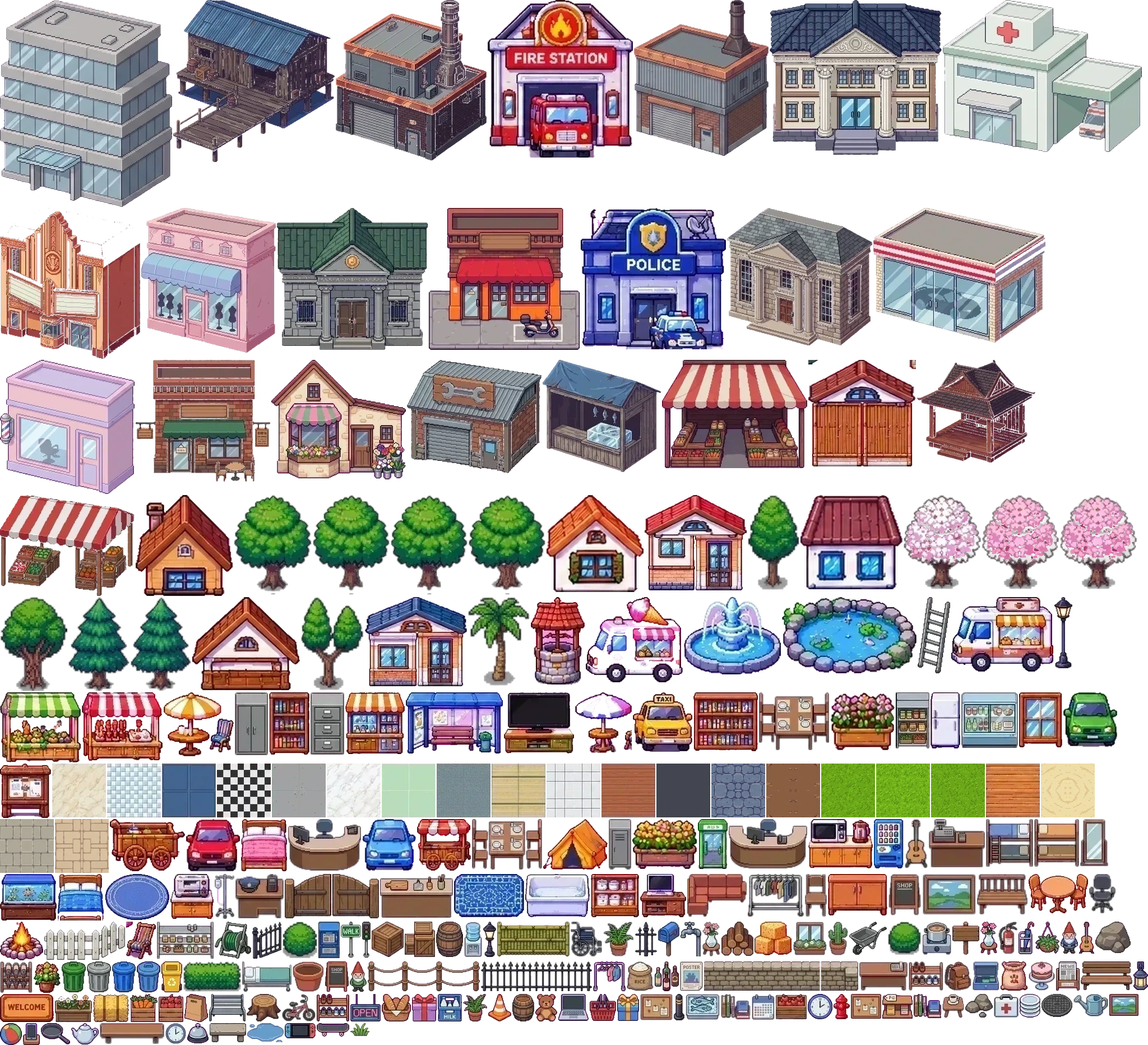
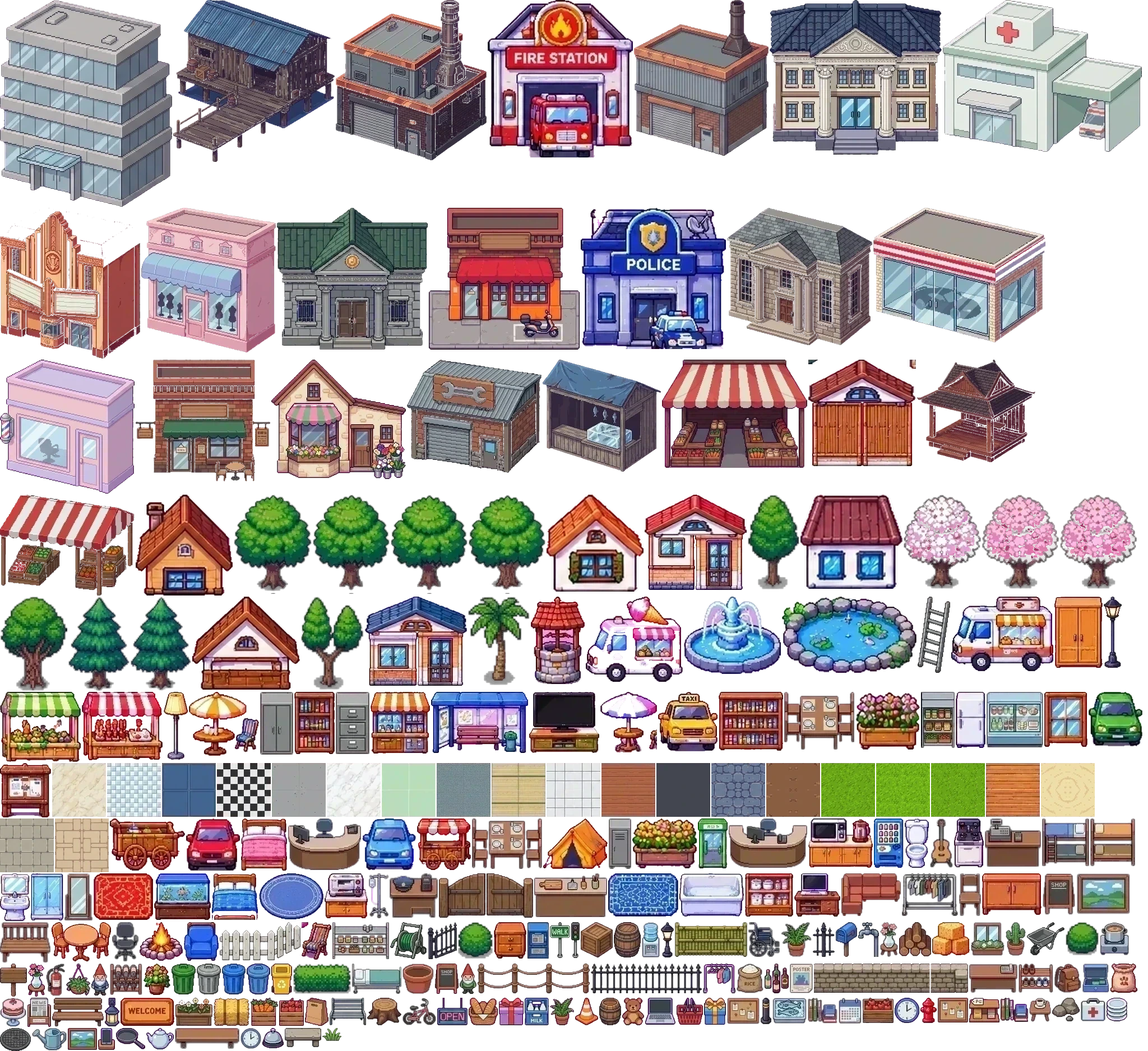
Player houses: bigger room laid out as bedroom, bathroom, living room and kitchen, bought furniture goes to its own spot; groves in the housing estate and farm; ground textures no longer show lines between tiles; tools/restore_sprites.py
Claude-Session: https://claude.ai/code/session_011vTRLcvJmqJKhBboYRSi88

diff --git a/server/data.js b/server/data.js
@@ -275,8 +275,8 @@ for (const a of [TOWN, FARM, HOUSING]) {
   for (let x = a.x; x < a.x + a.w; x++) { set(x, a.y, 'T'); set(x, a.y + a.h - 1, 'T'); }
   for (let y = a.y; y < a.y + a.h; y++) { if (get(a.x, y) !== 'w') set(a.x, y, 'T'); if (get(a.x + a.w - 1, y) !== 'w') set(a.x + a.w - 1, y, 'T'); }
   // trees grow in groves (parks and edges), not sprinkled everywhere, and keep two tiles clear of any road or path
-  const groves = a === TOWN ? [[78, 44, 5], [88, 40, 4], [70, 56, 5], [86, 66, 6], [14, 20, 5], [32, 20, 5], [70, 20, 6], [12, 38, 4], [32, 38, 5], [60, 66, 5], [8, 60, 5], [44, 60, 5]] : [];
-  for (let g = 0; g < (a === TOWN ? 22 : 12); g++) groves.push([a.x + 2 + rand() * (a.w - 4), a.y + 3 + rand() * (a.h - 5), 3.5 + rand() * 3.5]);
+  const groves = a === HOUSING ? [[192, 28, 4.5], [200, 30, 4], [250, 28, 4.5], [243, 30, 4], [196, 44, 5], [246, 44, 5], [212, 8, 6], [234, 8, 6]] : a === FARM ? [[118, 8, 5], [150, 6, 5], [176, 8, 4], [120, 32, 4]] : a === TOWN ? [[78, 44, 5], [88, 40, 4], [70, 56, 5], [86, 66, 6], [14, 20, 5], [32, 20, 5], [70, 20, 6], [12, 38, 4], [32, 38, 5], [60, 66, 5], [8, 60, 5], [44, 60, 5]] : [];
+  for (let g = 0; g < (a === TOWN ? 22 : 6); g++) groves.push([a.x + 2 + rand() * (a.w - 4), a.y + 3 + rand() * (a.h - 5), 3.5 + rand() * 3.5]);
   const nearWay = (x, y) => { for (let j = -2; j <= 2; j++) for (let k = -2; k <= 2; k++) if ('=,ckp'.includes(get(x + k, y + j) || '.')) return true; return false; };
   const n = a.w * a.h / 5;
   for (let i = 0; i < n; i++) {
@@ -296,7 +296,7 @@ for (let y = 0; y < H; y++) for (let x = 0; x < RX0; x++) if (grid[y][x] === 'T'
 // ================================================================= interiors
 // Every enterable building has a room. Furniture is real: solid pieces block movement
 // (on the server too). Layout entries: [sprite, x, y(bottom), solid?] relative to the room.
-const ROOM_SIZE = { office: [16, 12], hospital: [16, 11], house: [12, 9] };
+const ROOM_SIZE = { office: [16, 12], hospital: [16, 11], house: [14, 10] };
 const SOFT = /rug|window|pictures|clock|welcome|bed|chair|beanbag|curtains|picture/;
 const LAYOUT = {
   office: [['f_window', 4, 1.1], ['f_window', 12, 1.1], ['f_reception', 8, 2.4], ['f_filing_grey', 1.6, 2.6], ['f_cabinet2', 14.4, 2.7], ['f_plant', 1.6, 10.7], ['f_water', 14.4, 10.7], ['f_clock', 10.6, .95], ['f_corkboard', 5.5, 1.15, false], ['i_calendar', 2.8, 1.05, false], ['f_extinguisher', 12.6, 2.4], ['i_painting', 7.8, 1.05, false], ['i_news', 3.4, 10.7, false], ['i_bin_yellow', 12.7, 10.7, false]],
@@ -311,7 +311,12 @@ const LAYOUT = {
   school: [['f_books', 1.8, 2.6], ['f_bookshelf_wide', 3.6, 2.6], ['f_bookshelf', 11.8, 2.6], ['f_desk', 7, 2.3], ['f_clock', 9.4, .95], ['i_calendar', 4.8, 1.05, false], ['i_poster', 13.2, 1.05, false], ['i_backpack', 7, 8.6, false], ['i_news', 12.4, 8.6, false], ['i_laptop', 7, 2.0, false], ['i_painting', 1.8, 1.05, false]],
   police: [['f_police_desk', 7, 2.4], ['f_filing_grey', 1.6, 2.6], ['f_locker', 3, 2.7], ['f_corkboard', 10, 1.15, false], ['f_bunk', 11.5, 7.4], ['f_bunk2', 9.5, 7.4], ['f_plant', 1.6, 8.7], ['f_extinguisher', 13.2, 2.5], ['f_water', 4.4, 2.6], ['i_painting', 5.4, 1.05, false], ['i_cone', 13.2, 8.7, false], ['i_news', 6.2, 8.7, false]],
   bank: [['f_reception', 7, 2.4], ['f_filing_grey', 1.6, 2.6], ['f_filing_grey', 12.4, 2.6], ['f_rug_blue', 7, 6.6], ['f_plant', 1.6, 8.7], ['f_cactus', 12.4, 8.7], ['f_pictures', 4, 1.05], ['f_pictures', 10, 1.05], ['i_cashbox', 9.4, 2.4, false], ['i_clock', 7, 1.0, false], ['i_bell', 5.4, 2.5, false], ['i_plant', 9.6, 8.7], ['i_vase', 4.4, 8.7]],
-  house: [['f_bed_blue', 2.6, 3.4], ['f_window', 6, 1.1], ['f_welcome', 6, 8.2], ['f_window_flower', 9.5, 1.15, false], ['i_painting', 4, 1.05, false], ['i_teddy', 4.4, 3.6, false], ['i_guitar', 10.8, 3.0], ['i_books', 9.4, 2.6], ['i_console', 8.2, 5.6, false], ['i_ball', 9.8, 6.8, false], ['i_skate', 2.8, 7.4, false], ['i_umbrella', 4.2, 8.4], ['i_shoe_rack', 8.2, 8.4]],
+  // a small home: bedroom (top left), living room (middle), bathroom (top right), kitchen (bottom left); bought furniture fills its own spots (client FURN_POS)
+  house: [['f_wardrobe', 1.4, 2.9], ['f_bed_blue', 3.4, 3.3], ['i_teddy', 3.9, 2.7, false], ['f_drawer', 5.1, 2.5], ['i_books', 5.1, 1.55, false], ['i_painting', 3.4, 1.05, false],
+    ['f_window', 6.9, 1.1], ['f_window_flower', 11.2, 1.15, false],
+    ['f_sink', 10.0, 2.6], ['f_toilet', 11.1, 2.6], ['f_shower', 12.3, 2.7],
+    ['f_rug_red', 8, 6.0], ['f_armchair', 5.6, 5.8], ['f_floorlamp', 12.4, 8.7],
+    ['f_fridge', 1.2, 8.7], ['f_counter_micro', 2.95, 8.7], ['f_stove', 4.75, 8.7], ['f_welcome', 7, 9.25]],
 };
 // office: 8 work desks with a chair in front of each
 for (const cx of [2.5, 5.5, 10.5, 13.5]) for (const by of [5.2, 8.3]) LAYOUT.office.push(['f_laptop_desk', cx, by], ['f_office_chair', cx, by + 1.25]);
@@ -349,7 +354,7 @@ for (const b of BUILDINGS) {
   STATIONS.push({ id: 'exit_' + b.id, type: 'exit', room: room.id, label: 'ออกนอกอาคาร', icon: '🚪', x: rx + mx, y: ry + RH - 0.55, r: 1.2 });
   STATIONS.push({ id: 'door_' + b.id, type: 'door', to: room.id, label: b.label, icon: b.icon, x: front.x, y: front.y + 0.6, r: 1.5, area: b.area || 'town', bld: b.id, house: b.house, renov: b.renov || undefined });
   if (kind === 'house') {
-    STATIONS.push({ id: 'hbed' + b.house, type: 'hbed', idx: b.house, room: room.id, label: 'เตียงนอน', icon: '🛏', x: rx + 2.6, y: ry + 3.7, r: 1.4 });
+    STATIONS.push({ id: 'hbed' + b.house, type: 'hbed', idx: b.house, room: room.id, label: 'เตียงนอน', icon: '🛏', x: rx + 3.4, y: ry + 3.7, r: 1.4 });
     continue;
   }
   const s = { id: b.st, type: b.st, label: b.label, icon: b.icon, room: room.id, x: rx + mx, y: ry + 2.6, r: 1.8 };

diff --git a/public/game.js b/public/game.js
@@ -1609,7 +1609,8 @@ function spr(name, cx, by, X, Y, scale = 1) {
 function tex(name, tx, ty, px, py) {
   const s = atlas && atlasImg && atlas.sprites[name]; if (!s) return false;
   const q = atlas.tile;
-  ctx.drawImage(atlasImg, s[0] + (tx & 1) * q, s[1] + (ty & 1) * q, q, q, Math.floor(px), Math.floor(py), Math.ceil(TS) + 1, Math.ceil(TS) + 1);
+  // sample 1px inside each quarter: the lossy atlas bleeds a little at sprite edges, which showed as lines between tiles
+  ctx.drawImage(atlasImg, s[0] + (tx & 1) * q + 1, s[1] + (ty & 1) * q + 1, q - 2, q - 2, Math.floor(px), Math.floor(py), Math.ceil(TS) + 1, Math.ceil(TS) + 1);
   return true;
 }
 const FLOOR = { fashion: 'fl_marble', police: 'fl_concrete', office: 'fl_carpet_blue', market: 'fl_beige', warehouse: 'fl_concrete', rider: 'fl_stone', dealer: 'fl_white', toolshop: 'fl_concrete',
@@ -2065,7 +2066,8 @@ function showDriveTest(m) {
 // ------------------------------------------------------------------ areas, interiors
 let roomGrid = [], roomFurniture = [];
 const FURN_SPRITE = { plant: 'f_plant', sofa: 'f_sofa_red', tv: 'f_tv', bed: 'f_bed_pink', aqua: 'f_aquarium', art: 'f_pictures', piano: 'f_guitar', jacuzzi: 'f_bath' };
-const FURN_SLOTS = [[10.4, 7.6], [8, 2.6], [10, 2.6], [10.2, 5.2], [4.5, 1.05], [1.8, 6.2], [5, 2.6], [1.8, 7.8]];
+// where each piece of bought furniture stands in the house (by kind, so a home always looks arranged)
+const FURN_POS = { tv: [8, 2.9], sofa: [8, 6.7], plant: [11, 8.7], aqua: [9.6, 8.7], art: [9.2, 1.05], piano: [1.1, 5.9], bed: [2.2, 6.2], jacuzzi: [11.8, 5.5] };
 function buildAreas() {
   AREA = Object.fromEntries(G.areas.map(a => [a.id, a]));
   roomGrid = new Array(G.map.w * G.map.h);
@@ -2077,7 +2079,7 @@ function layoutFurniture() {
   for (const r of G.areas) {
     if (r.kind !== 'room') continue;
     for (const f of r.furniture || []) roomFurniture.push(f);
-    if (r.rk === 'house') { const h = wd?.houses?.[r.house]; if (h) h[2].forEach((k, i) => FURN_SLOTS[i] && roomFurniture.push([FURN_SPRITE[k], r.x + FURN_SLOTS[i][0], r.y + FURN_SLOTS[i][1]])); }
+    if (r.rk === 'house') { const h = wd?.houses?.[r.house]; if (h) h[2].forEach(k => FURN_POS[k] && roomFurniture.push([FURN_SPRITE[k], r.x + FURN_POS[k][0], r.y + FURN_POS[k][1]])); }
   }
 }
 function drawRoomLabels(r, X, Y, t) {

diff --git a/tools/restore_sprites.py b/tools/restore_sprites.py
@@ -1,0 +1,34 @@
+"""Copy named sprites from an older atlas in git history back into the current atlas.
+
+    python3 tools/restore_sprites.py <commit> name [name ...]
+
+Useful after tools/repack_atlas.py dropped sprites that the game now wants again.
+"""
+import io, json, os, subprocess, sys
+from PIL import Image
+
+ROOT = os.path.join(os.path.dirname(__file__), '..')
+IMG = os.path.join(ROOT, 'public', 'assets', 'atlas.webp')
+JS = os.path.join(ROOT, 'public', 'assets', 'atlas.json')
+
+def git_bytes(rev, path):
+    return subprocess.run(['git', '-C', ROOT, 'show', f'{rev}:{path}'], check=True, capture_output=True).stdout
+
+def main():
+    rev, names = sys.argv[1], sys.argv[2:]
+    old_j = json.loads(git_bytes(rev, 'public/assets/atlas.json')); old = Image.open(io.BytesIO(git_bytes(rev, 'public/assets/atlas.webp'))).convert('RGBA')
+    data = json.load(open(JS)); atlas = Image.open(IMG).convert('RGBA'); S = data['sprites']
+    pieces = [(n, old.crop((r[0], r[1], r[0] + r[2], r[1] + r[3]))) for n in names if n not in S and (r := old_j['sprites'].get(n))]
+    x, y, rowh = 0, data['size'][1] + 2, 0; placed = []
+    for n, im in pieces:
+        if x + im.width > atlas.width: x, y, rowh = 0, y + rowh + 2, 0
+        placed.append((n, x, y, im)); x += im.width + 2; rowh = max(rowh, im.height)
+    out = Image.new('RGBA', (atlas.width, y + rowh)); out.paste(atlas, (0, 0))
+    for n, px, py, im in placed:
+        out.paste(im, (px, py)); S[n] = [px, py, im.width, im.height]
+    data['size'] = [atlas.width, out.height]
+    out.save(IMG, 'WEBP', quality=92, method=6); json.dump(data, open(JS, 'w'), separators=(',', ':'))
+    print('restored', [p[0] for p in placed])
+
+if __name__ == '__main__':
+    main()
